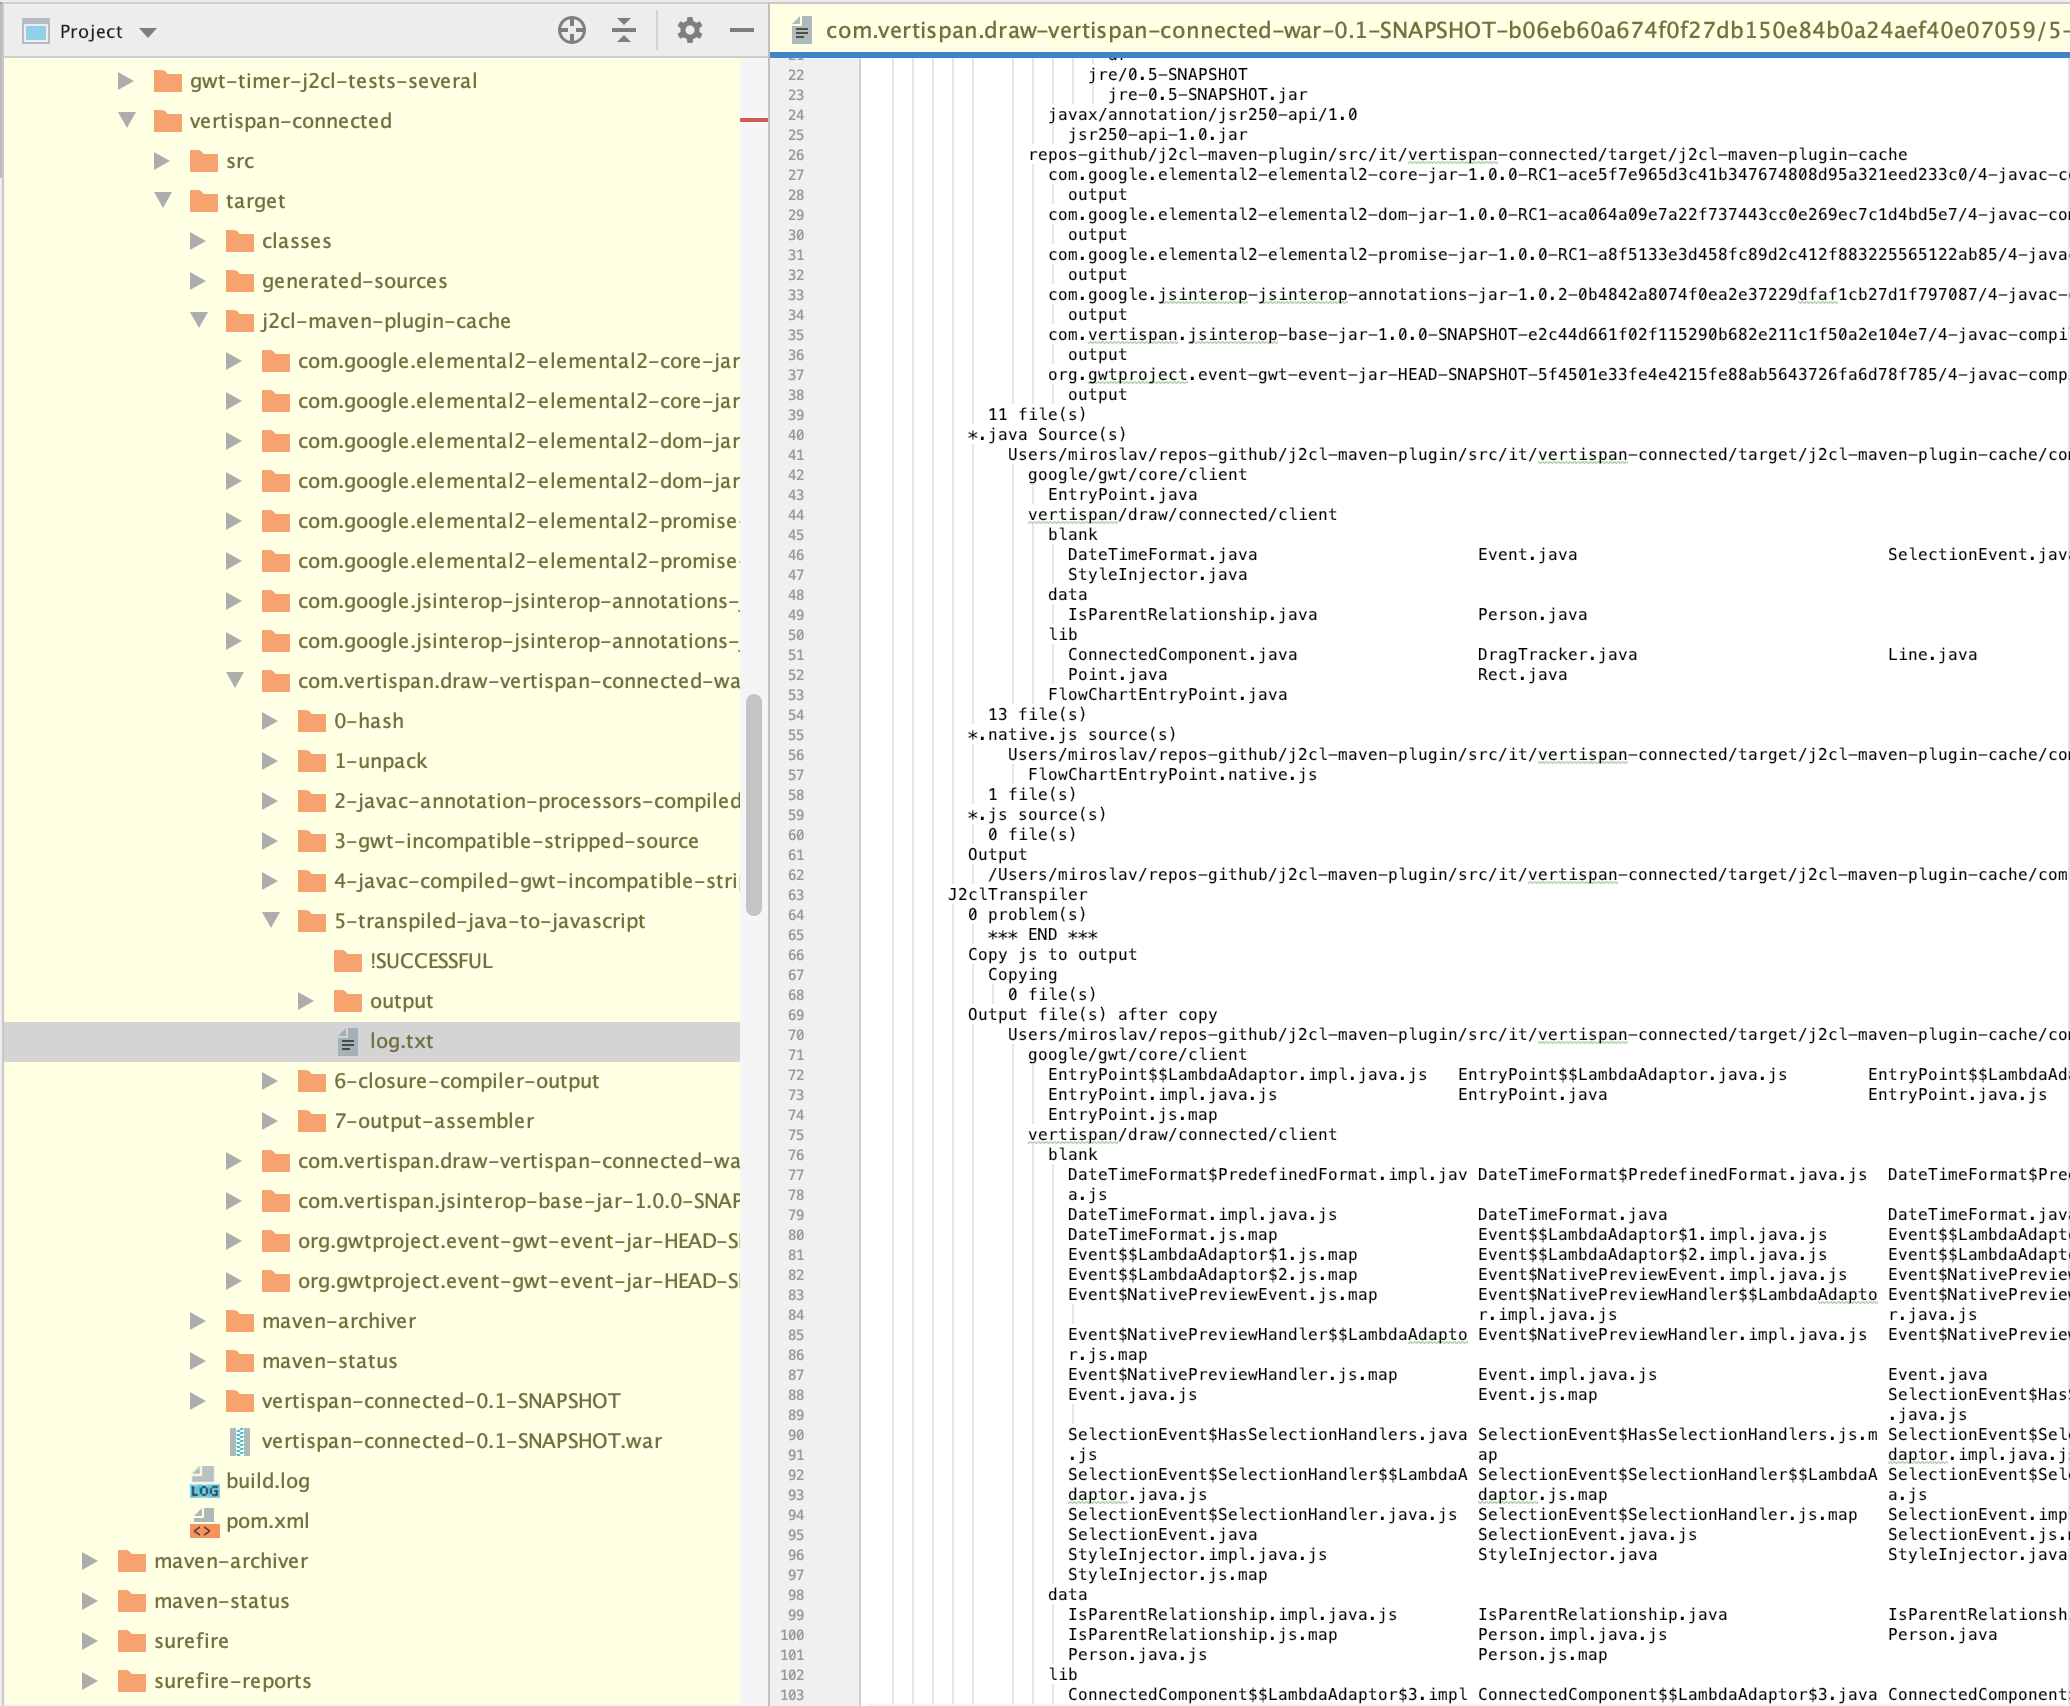
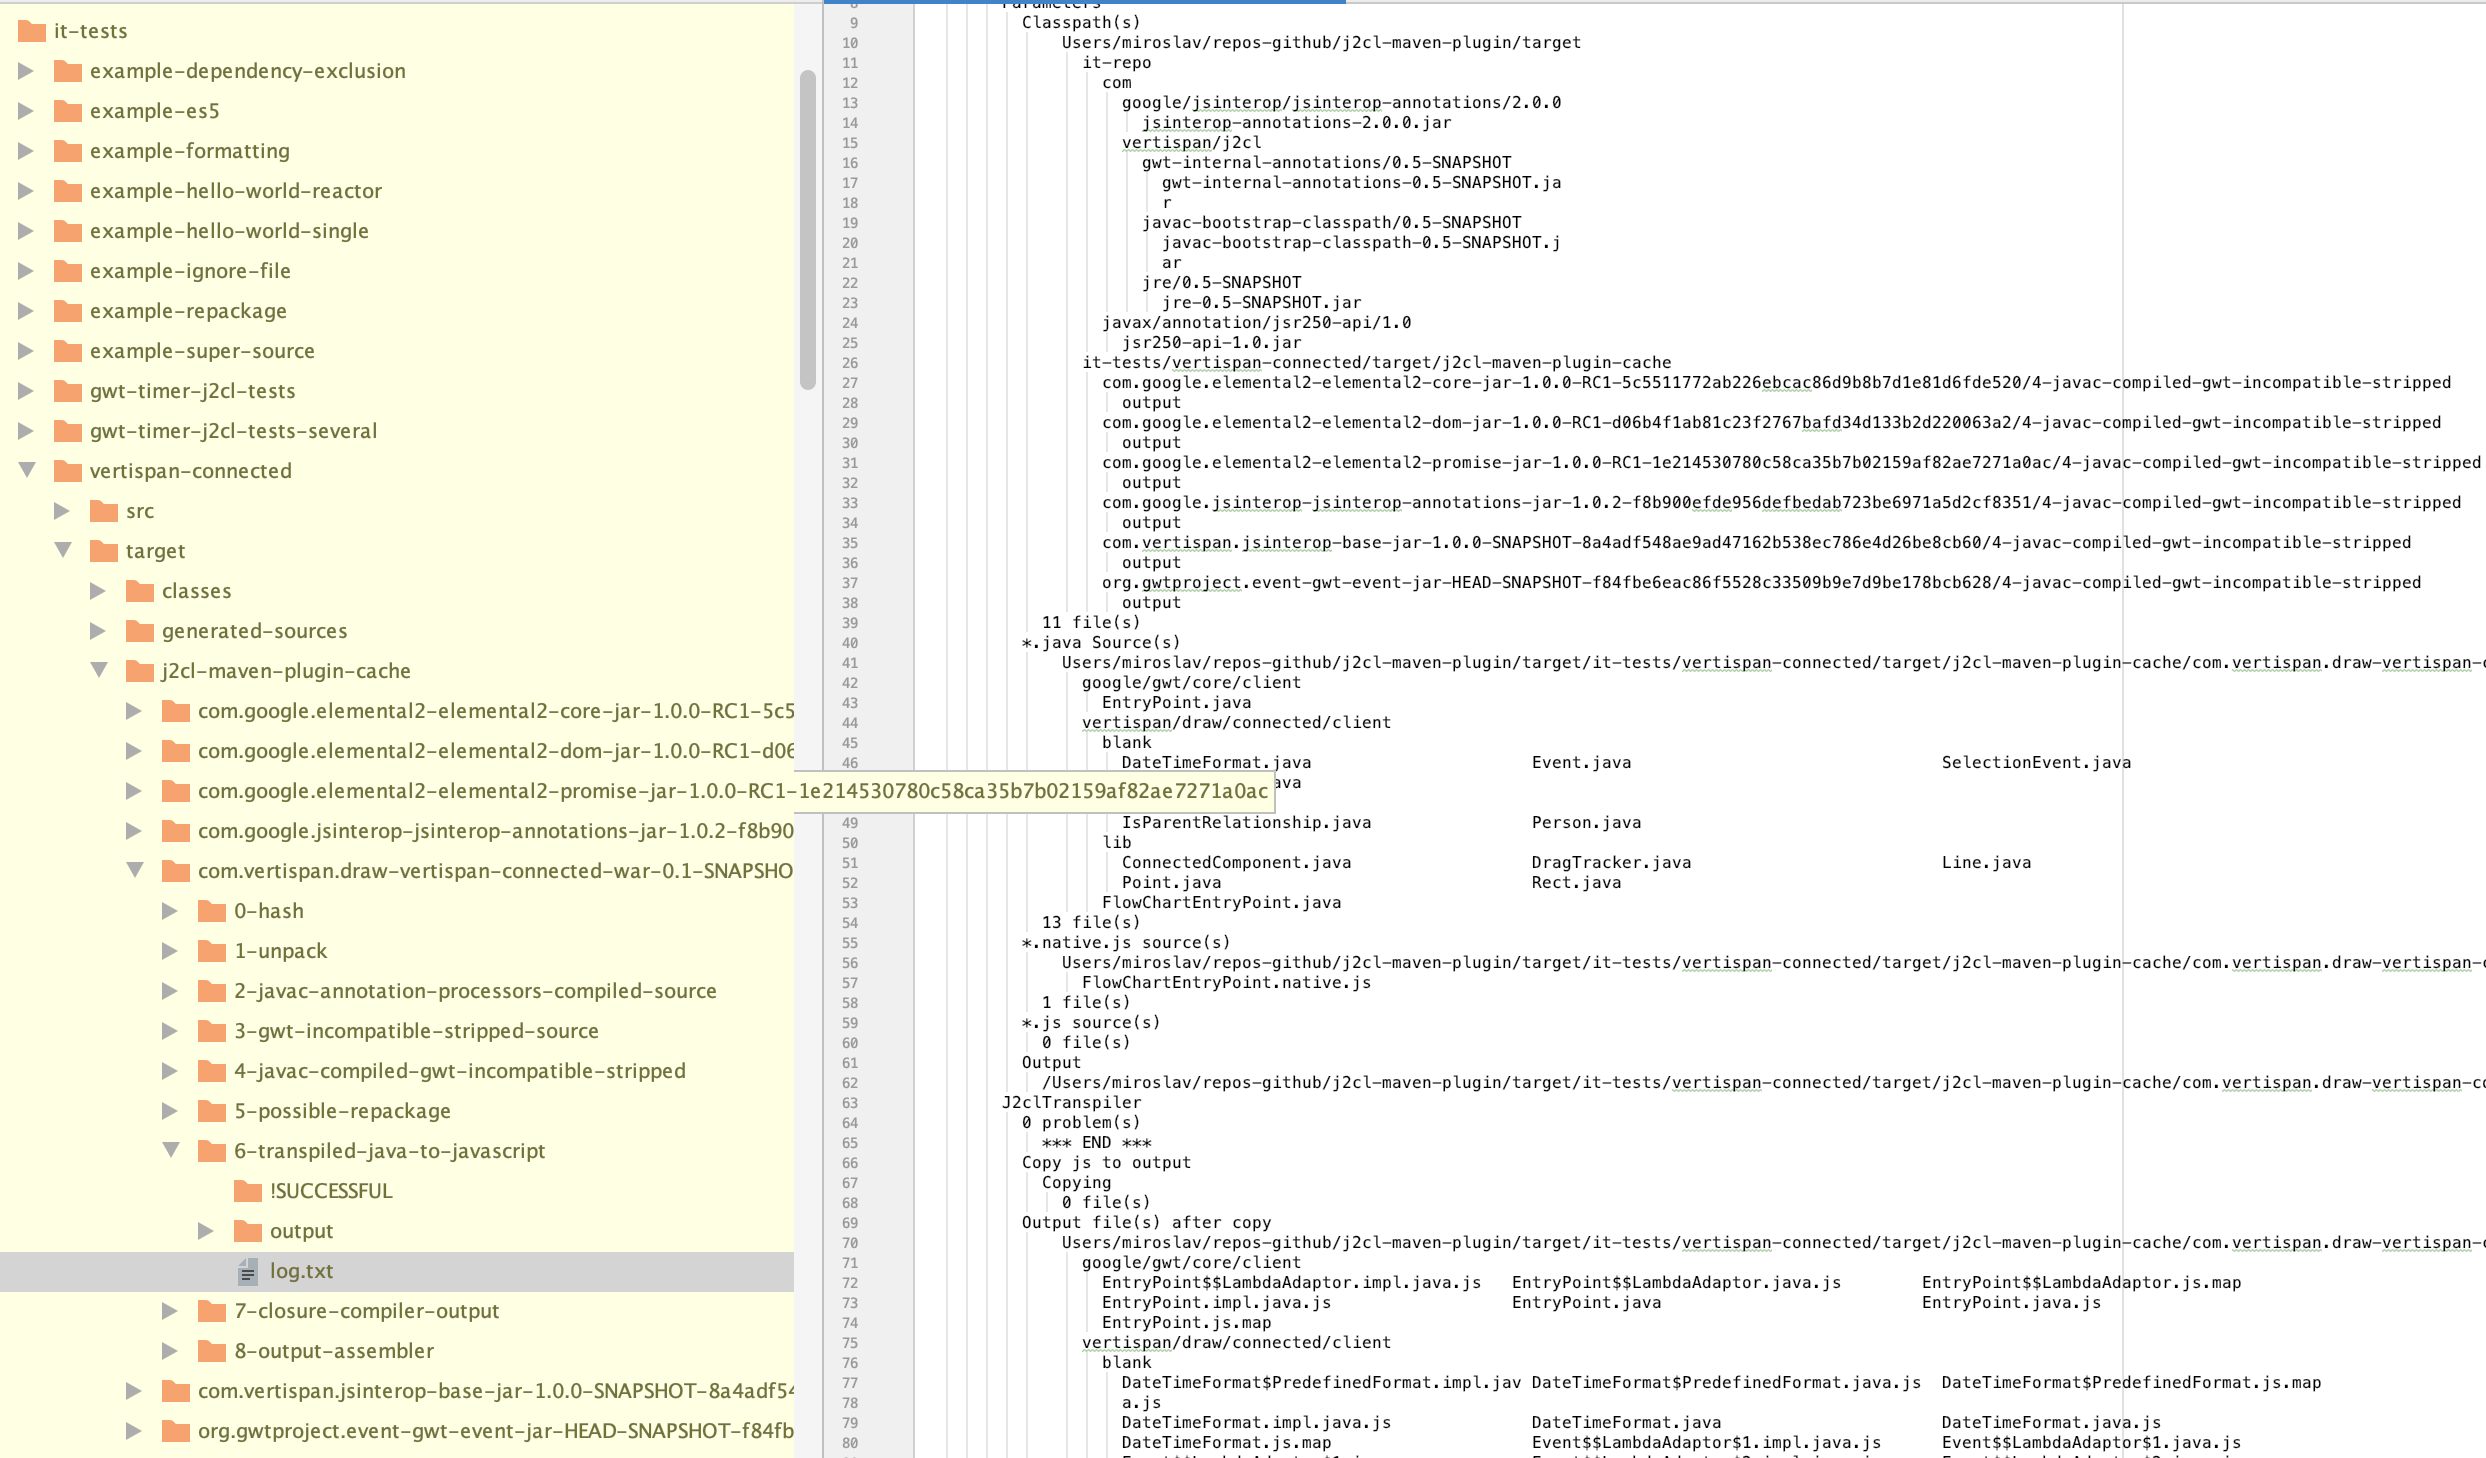
.walkingkooka-j2cl-maven-plugin-repackage.txt
- replaces .walkingkooka-j2cl-maven-plugin-package-prefix.txt

Changed region(s): [[0.0, 0.0, 1.0, 1.0], [0.8966, 0.4938, 1.0, 0.5247], [0.742, 0.4938, 0.8657, 0.5247]]

diff --git a/src/main/java/walkingkooka/j2cl/maven/J2clStepWorkerPossibleRepackage.java b/src/main/java/walkingkooka/j2cl/maven/J2clStepWorkerPossibleRepackage.java
@@ -22,8 +22,9 @@ import walkingkooka.text.CharSequences;
 
 import java.io.File;
 import java.nio.charset.Charset;
+import java.util.Map;
+import java.util.Map.Entry;
 import java.util.Set;
-import java.util.stream.Collectors;
 
 /**
  * Scans the output of the previous step for any repackage super source and if any are found writes the result to an output directory.
@@ -48,26 +49,35 @@ final class J2clStepWorkerPossibleRepackage extends J2clStepWorker2 {
     J2clStepResult execute1(final J2clDependency artifact,
                             final J2clStepDirectory directory,
                             final J2clLinePrinter logger) throws Exception {
-        final J2clStepResult result;
+        J2clStepResult result = null;
 
         if (artifact.isProcessingSkipped()) {
             result = J2clStepResult.SKIPPED;
         } else {
 
             // the package prefix file will be present in UNPACK
-            final J2clPath packagePrefix = artifact.step(J2clStep.UNPACK)
+            final J2clPath repackage = artifact.step(J2clStep.UNPACK)
                     .output()
-                    .packagePrefixFile();
-            logger.printLine(packagePrefix.toString());
+                    .repackageFile();
+            logger.printLine(repackage.toString());
             logger.indent();
             {
-                if (packagePrefix.isFile()) {
-                    this.copyAndRepackage(artifact.step(J2clStep.GWT_INCOMPATIBLE_STRIP).output(),
-                            packagePrefix.readPackagePrefix(),
-                            directory.output(),
-                            logger);
-                    result = J2clStepResult.SUCCESS;
-                } else {
+                boolean repackaging = false;
+
+                if (repackage.isFile()) {
+                    final Map<String, String> repackageMappings = repackage.readRepackageFile();
+
+                    if (!repackageMappings.isEmpty()) {
+                        this.copyAndRepackage(artifact.step(J2clStep.GWT_INCOMPATIBLE_STRIP).output(),
+                                repackageMappings,
+                                directory.output(),
+                                logger);
+                        repackaging = true;
+                        result = J2clStepResult.SUCCESS;
+                    }
+                }
+
+                if (!repackaging) {
                     logger.printLine("Not found");
                     result = J2clStepResult.SKIPPED;
                 }
@@ -83,54 +93,62 @@ final class J2clStepWorkerPossibleRepackage extends J2clStepWorker2 {
      * copy the files to the destination.
      */
     private void copyAndRepackage(final J2clPath sourceRoot,
-                                  final String packagePrefix,
+                                  final Map<String, String> repackaging,
                                   final J2clPath output,
                                   final J2clLinePrinter logger) throws Exception {
         final Set<J2clPath> files = sourceRoot.gatherFiles(J2clPath.JAVA_FILES);
-        final J2clPath refactorSourceRoot;
-        final Set<J2clPath> refactorFiles;
+        final Set<J2clPath> nonRefactoredFiles = Sets.sorted();
+        nonRefactoredFiles.addAll(files);
 
         logger.indent();
         {
-            final String find = packagePrefix;
-            final int lastPackage = packagePrefix.lastIndexOf('.');
-            final String replace = packagePrefix.substring(lastPackage + 1);
+            for(final Entry<String, String> mapping : repackaging.entrySet()) {
+                final String find = mapping.getKey();
+                final String replace = mapping.getValue();
 
-            logger.printLine("Finding package prefix " + CharSequences.quote(find) + " replacing with " + CharSequences.quote(replace) + " in java source");
-            logger.indent();
-            {
-                refactorSourceRoot = sourceRoot.append(find.substring(0, lastPackage)
-                .replace('.', File.separatorChar));
+                final J2clPath repackageDirectory = replace.isEmpty() ?
+                        output :
+                        output.append(replace.replace('.', File.separatorChar));
 
-                // filter only files belonging to refactor source root
-                refactorFiles = files.stream()
-                        .filter(f -> f.path().startsWith(refactorSourceRoot.path()))
-                        .collect(Collectors.toCollection(Sets::sorted));
+                logger.printLine("Finding package " + CharSequences.quote(find) + " replacing with " + CharSequences.quote(replace) + " in java source");
+                logger.indent();
+                {
+                    final Set<J2clPath> refactorFiles = Sets.sorted();
+                    final J2clPath refactorSourceRoot = sourceRoot.append(find.replace('.', File.separatorChar));
 
-                // copy and refactor java source and copy other files to output.
-                output.copyFiles(refactorSourceRoot,
-                        refactorFiles,
-                        (content, path) -> {
-                            return path.isJava() ?
-                                    refactor(content, find, replace) :
-                                    content;
-                        },
-                        logger);
+                    // filter only files belonging to refactor source root
+                    files.stream()
+                            .filter(f -> f.path().startsWith(refactorSourceRoot.path()))
+                            .forEach(refactorFiles::add);
+
+                    nonRefactoredFiles.removeAll(refactorFiles);
+
+                    logger.printLine("FILES: " + files.size() + "\t" + files.toString());
+                    logger.printLine("OUTPUT: " + output);
+                    logger.printLine("REF: " + repackageDirectory);
+                    logger.printLine("REFACTOR SOURCE ROOT: " + refactorSourceRoot);
+
+                    // copy and refactor java source and copy other files to output.
+                    repackageDirectory.copyFiles(refactorSourceRoot,
+                            refactorFiles,
+                            (content, path) -> {
+                                logger.printLine("FIND " + find + " REPLACE " + replace);
+                                return path.isJava() ?
+                                        refactor(content, find, replace) :
+                                        content;
+                            },
+                            logger);
+                }
+                logger.outdent();
             }
-            logger.outdent();
 
             logger.printLine("Copying other files");
             logger.indent();
             {
 
-                // remove the refactored files and copy those...
-                final Set<J2clPath> otherFiles = Sets.sorted();
-                otherFiles.addAll(files);
-                otherFiles.removeAll(refactorFiles);
-
                 // copy all other files verbatim.
                 output.copyFiles(sourceRoot,
-                        otherFiles,
+                        nonRefactoredFiles,
                         logger);
 
             }

diff --git a/src/main/java/walkingkooka/j2cl/maven/J2clPath.java b/src/main/java/walkingkooka/j2cl/maven/J2clPath.java
@@ -24,7 +24,9 @@ import walkingkooka.collect.set.Sets;
 import walkingkooka.text.CharSequences;
 
 import java.io.File;
+import java.io.FileInputStream;
 import java.io.IOException;
+import java.io.InputStream;
 import java.net.URI;
 import java.nio.file.FileSystem;
 import java.nio.file.FileSystems;
@@ -37,7 +39,9 @@ import java.nio.file.StandardOpenOption;
 import java.nio.file.attribute.BasicFileAttributes;
 import java.util.Collection;
 import java.util.List;
+import java.util.Map;
 import java.util.Optional;
+import java.util.Properties;
 import java.util.Set;
 import java.util.function.BiFunction;
 import java.util.function.BiPredicate;
@@ -120,18 +124,6 @@ final class J2clPath implements Comparable<J2clPath> {
     private static final String IGNORE_FILE = FILE_PREFIX + "-ignore.txt";
 
     /**
-     * Builds a new path holding the package prefix file.
-     */
-    J2clPath packagePrefixFile() {
-        return this.append(PACKAGE_PREFIX_FILE);
-    }
-
-    /**
-     * The name of the repackage file used during {@link J2clStep#POSSIBLE_REPACKAGE} and the package prefix to be removed.
-     */
-    private static final String PACKAGE_PREFIX_FILE = FILE_PREFIX + "-package-prefix.txt";
-
-    /**
      * Builds a new path holding the output directory within this directory.
      */
     J2clPath output() {
@@ -147,6 +139,18 @@ final class J2clPath implements Comparable<J2clPath> {
     }
 
     private final static String OUTPUT = "output";
+
+    /**
+     * Builds a new path holding the repackage mapping file.
+     */
+    J2clPath repackageFile() {
+        return this.append(REPACKAGE_FILE);
+    }
+
+    /**
+     * The name of the repackage file used during {@link J2clStep#POSSIBLE_REPACKAGE} and the package prefix to be removed.
+     */
+    private static final String REPACKAGE_FILE = FILE_PREFIX + "-repackage.txt";
 
     boolean isTestAnnotation() {
         final Path path = this.path();
@@ -344,6 +348,20 @@ final class J2clPath implements Comparable<J2clPath> {
             throw new J2clException("Package prefix " + CharSequences.quote(packagePrefix) + " must not be a top level package");
         }
         return packagePrefix;
+    }
+
+    /**
+     * Used to read the {@link #REPACKAGE_FILE} properties file.
+     */
+    Map<String, String> readRepackageFile() throws IOException {
+        try (final InputStream file = new FileInputStream(this.file())) {
+            final Properties properties = new Properties();
+            properties.load(file);
+
+            final Map<String, String> map = Maps.sorted();
+            properties.forEach((k, v) -> map.put((String) k, (String) v));
+            return map;
+        }
     }
 
     String filename() {

diff --git a/src/it/example-repackage/src/main/java/example/repackage/javaio/FileInputStream.java b/src/it/example-repackage/src/main/java/example/repackage/javaio/FileInputStream.java
@@ -13,24 +13,28 @@
  * License for the specific language governing permissions and limitations under
  * the License.
  */
-package example.repackagelib;
+package example.repackage.javaio;
 
 import jsinterop.annotations.JsType;
-
 import java.io.File;
-import java.io.FileInputStream;
-import java.util.Arrays;
-import java.util.Collections;
-import java.util.List;
 
 /**
- * Calls a class that is unsupported JDK (java.io.File) that is replaced by a example.java.io.File at
- * transpile time.
+ * This file eventually gets translated into java.io.FileInputStream
+ *
+ * <p>Note that it is marked as @JsType as we would like to call have whole class available to use
+ * from JavaScript.
  */
 @JsType
-public class HelloWorld {
+public class FileInputStream {
 
-    public static String getHelloWorld() throws Exception {
-        return "Should say \"java.io.FileInputStream java.io.File\" path=hello.txt -> " + new FileInputStream(new File("hello.txt")).toString();
+    public FileInputStream(final File file) {
+        this.file = file;
     }
+    
+    @Override
+    public String toString() {
+        return this.getClass().getName() + " " + file.getClass().getName();
+    }
+
+    private final File file;
 }

diff --git a/Readme.md b/Readme.md
@@ -611,31 +611,33 @@ of methods under test.
 
 
  
-### .walkingkooka-j2cl-maven-plugin-package-prefix.txt
-``txt
-example.java
-``
+### .walkingkooka-j2cl-maven-plugin-repackage.txt
 
-The simplified & emulated `Locale` that will exist within compiled javascript before repackaging.
+This performs a similar action as GWT super source [GWT](http://www.gwtproject.org/doc/latest/DevGuideOrganizingProjects.html),
+but allows entire packages to be changed. It may also be used to repackage the threeten package into java.time.
 
-``
+```txt
+example.java.util=java.util
+```
+
+```java
 package example.java.util
 
 class Locale {
   static Locale forLanguageTag(String tag);
     // perhaps have a big switch statement with a few locales we wish to support in js.
 }
-``
+```
 
 The actual java source that is compiled into javascript.
 
-``
+```java
 package java.util
 
 class Locale {
    Locale forLanguageTag(String tag);
 }
-``
+```
 
 
 
